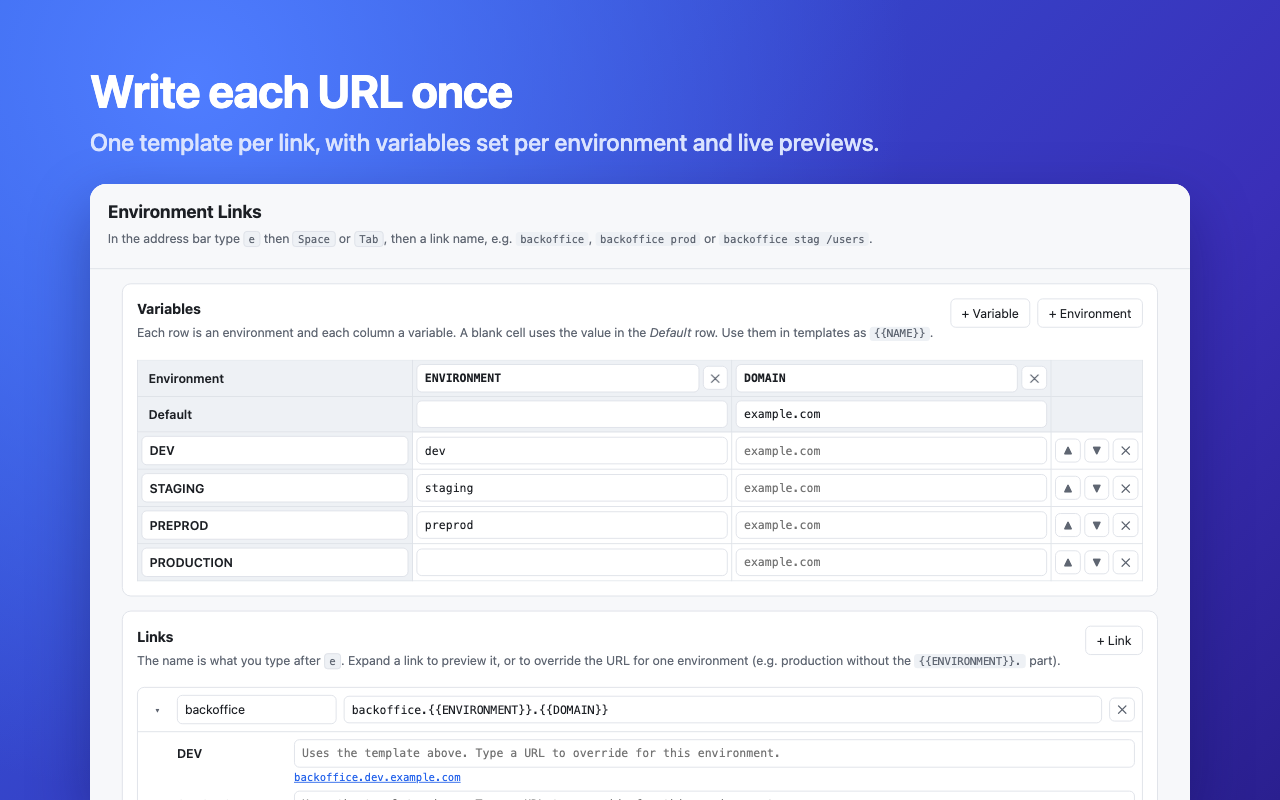
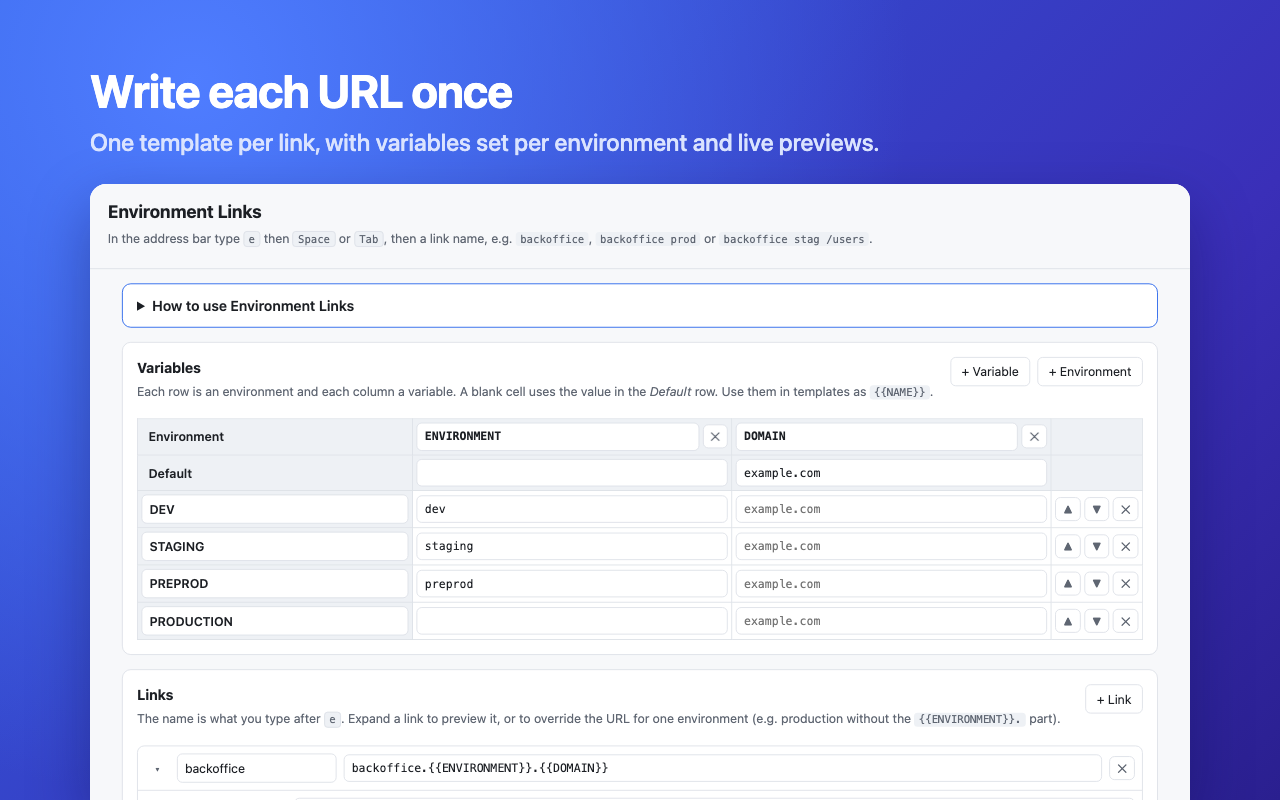
Add settings tutorial and a crx pack script
- The settings page opens with a short five-step guide that collapses and
  stays hidden once dismissed (store screenshots render it collapsed).
- npm run crx builds a signed dist/environment-links.crx using a key kept
  outside the project, so Chrome no longer finds a .pem in the extension.

diff --git a/src/options.html b/src/options.html
@@ -17,7 +17,42 @@
   </header>
 
   <main>
-    <section>
+    <details id="tutorial" class="tutorial" open>
+      <summary>How to use Environment Links</summary>
+      <ol class="steps">
+        <li>
+          <h3>Set up your environments</h3>
+          <p>In <a href="#vars-section">Variables</a>, each row is an environment and each column a variable. Give each environment
+            its own values, e.g. <code>ENVIRONMENT</code> = <code>dev</code> for DEV. Put values every environment shares, like
+            <code>DOMAIN</code>, in the <em>Default</em> row.</p>
+        </li>
+        <li>
+          <h3>Add a link</h3>
+          <p>In <a href="#links-section">Links</a>, give it a short name and a URL template that uses your variables, e.g.
+            <code>backoffice</code> → <code>backoffice.{{ENVIRONMENT}}.{{DOMAIN}}</code>. Expand it with ▸ to check the URL for
+            every environment, or to type a different URL for one of them.</p>
+        </li>
+        <li>
+          <h3>Open it from the address bar</h3>
+          <p>Type <kbd class="keyword">e</kbd>, press <kbd>Space</kbd>, then the link name: <code>backoffice</code>. Pick an
+            environment with <kbd>↑</kbd> <kbd>↓</kbd> and press <kbd>Enter</kbd>. Add environment names to narrow the list
+            (<code>backoffice prod</code>) or a path to land on a page (<code>backoffice stag /users</code>).</p>
+        </li>
+        <li>
+          <h3>Or use the toolbar button</h3>
+          <p>Click the extension's icon for every link with a button per environment. Type to filter, use the arrow keys to
+            choose, and press <kbd>Enter</kbd>. Can't see the icon? Click Chrome's puzzle-piece icon and pin Environment Links.</p>
+        </li>
+        <li>
+          <h3>Share with your team <span class="muted">(optional)</span></h3>
+          <p>Commit a links file to a GitHub repository, then add it in <a href="#sharing">Shared links</a>. Everyone who adds
+            it gets the same links, and anything you set yourself still wins.</p>
+        </li>
+      </ol>
+      <div class="actions"><button id="tutorial-done" type="button">Got it, hide this</button></div>
+    </details>
+
+    <section id="vars-section">
       <div class="section-head">
         <div>
           <h2>Variables</h2>
@@ -32,7 +67,7 @@
       <div class="table-wrap"><table id="vars" class="grid"></table></div>
     </section>
 
-    <section>
+    <section id="links-section">
       <div class="section-head">
         <div>
           <h2>Links</h2>

diff --git a/src/options.js b/src/options.js
@@ -568,6 +568,23 @@ $("#share-copy").addEventListener("click", async () => {
   setStatus("Copied to clipboard", "ok");
 });
 
+// ---- Tutorial ---------------------------------------------------------------
+
+// Open until dismissed; remembered per browser. Storage can be unavailable, so it's best effort.
+const TUTORIAL_KEY = "tutorial-hidden";
+try {
+  if (localStorage.getItem(TUTORIAL_KEY) === "1") $("#tutorial").open = false;
+} catch {}
+$("#tutorial").addEventListener("toggle", (e) => {
+  try {
+    localStorage.setItem(TUTORIAL_KEY, e.target.open ? "0" : "1");
+  } catch {}
+});
+$("#tutorial-done").addEventListener("click", () => {
+  $("#tutorial").open = false;
+  $("#tutorial").scrollIntoView({ block: "nearest" });
+});
+
 // ---- Wiring ---------------------------------------------------------------
 
 function render() {

diff --git a/src/options.css b/src/options.css
@@ -145,3 +145,16 @@ input[readonly] { background: var(--code-bg); }
 @media (max-width: 640px) {
   .add-source { grid-template-columns: 1fr; }
 }
+
+.tutorial {
+  background: var(--surface); border: 1px solid var(--accent); border-radius: 10px;
+  padding: 12px 16px; margin-bottom: 16px;
+}
+.tutorial summary { cursor: pointer; font-weight: 600; font-size: 16px; }
+.tutorial[open] summary { margin-bottom: 4px; }
+.tutorial .steps { margin: 0; padding-left: 22px; display: grid; gap: 10px; }
+.tutorial .steps h3 { margin: 8px 0 2px; font-size: 14px; }
+.tutorial .steps p { margin: 0; color: var(--muted); }
+.tutorial .steps li::marker { font-weight: 600; color: var(--accent); }
+.tutorial a { color: var(--accent); }
+section[id] { scroll-margin-top: 110px; }

diff --git a/scripts/build-assets.py b/scripts/build-assets.py
@@ -51,6 +51,7 @@ SHARED_FILE = {
 }
 STUB = """<script>
 const shared = location.search.includes("shared");
+try { localStorage.setItem("tutorial-hidden", "1"); } catch {} // keep the tutorial out of the store screenshots
 const sync = { config: %(seed)s };
 const local = {};
 if (shared) {

diff --git a/README.md b/README.md
@@ -93,4 +93,10 @@ npm test
 npm run package
 ```
 
+```bash
+npm run crx
+```
+
+`npm run crx` builds a signed `dist/environment-links.crx`. The signing key lives at `~/.environment-links/environment-links.pem`, outside the project, so it never ends up in the extension. Set `KEY=` to use another path. Back it up: every release must be signed with the same key to keep the extension ID.
+
 `src/core.js` holds the template, search and shared-file merge logic and has no Chrome dependencies. `src/shared.js` fetches shared files from GitHub and caches them, `src/background.js` wires everything to the omnibox and the hourly sync, `src/popup.*` is the toolbar list and `src/options.*` the settings page.
